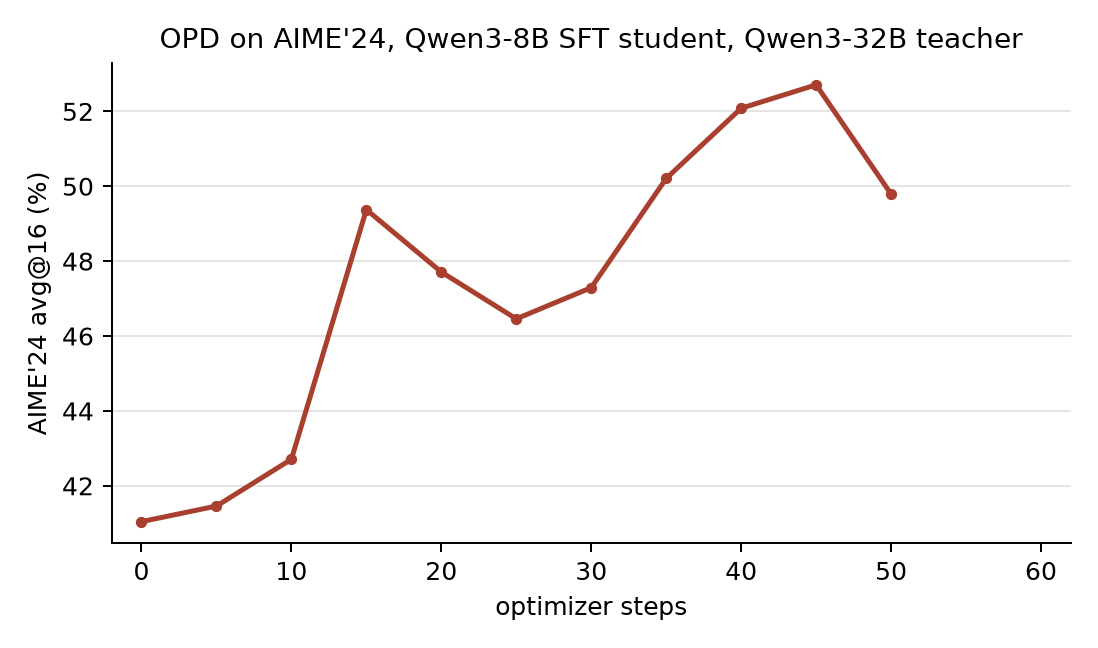
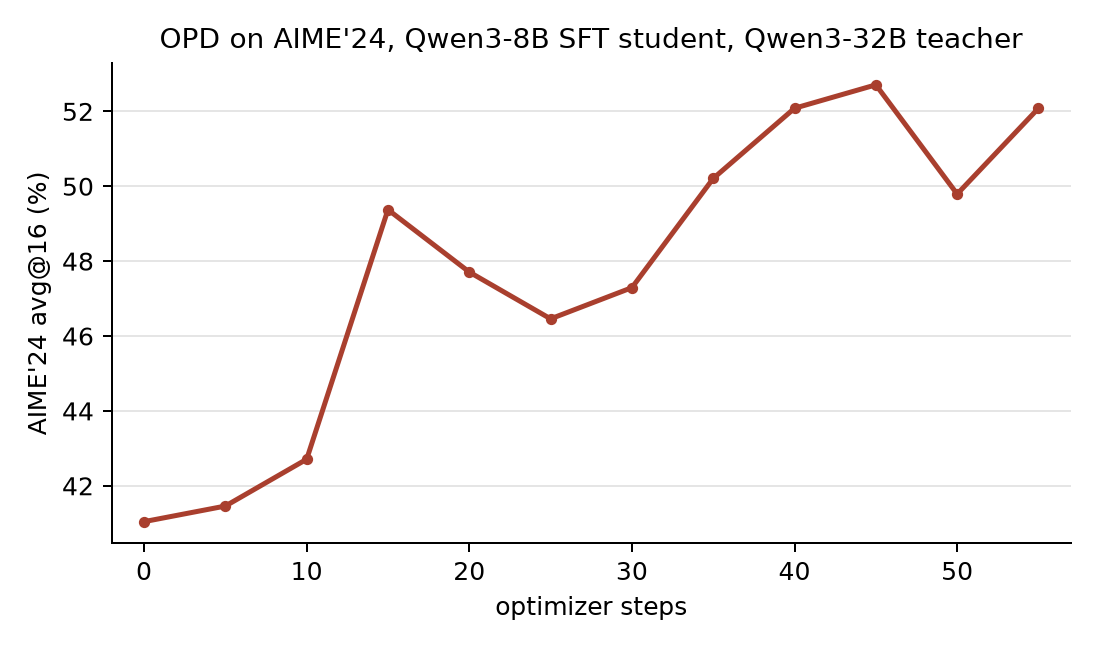
docs(opd): record the example run through update 55
The run was stopped after update 55. The curve and the results text now cover the twelve evaluations.

diff --git a/recipes/opd/examples/math/README.md b/recipes/opd/examples/math/README.md
@@ -110,18 +110,20 @@ control above was measured that way.
 
 ![AIME'24 avg@16 against optimizer steps](results/2026-10-13-aime24-qwen3-8b-32b/learning_curve.png)
 
-One run with seed 0 on eight H100s. The actor, the rollout engines and the
-teacher engine ran on separate GPUs.
+One run with seed 0 on eight H100s, stopped after update 55 of the 60 in the
+protocol. The actor, the rollout engines and the teacher engine ran on
+separate GPUs.
 
 AIME'24 accuracy goes from 41.0% at the SFT checkpoint to 49.4% at update 15
-and to 52.7% at update 45. It stays between 49.8% and 52.7% from update 35 on.
-The teacher scores 80.2%. Adjacent evaluations exchange about 60 correct
-responses in each direction, so a two-point difference between them is noise.
+and to 52.7% at update 45. It stays between 49.8% and 52.7% from update 35 on
+and ends at 52.1% at update 55. The teacher scores 80.2%. Adjacent evaluations
+exchange about 60 correct responses in each direction, so a two-point
+difference between them is noise.
 
 The training loss, the sampled-token reverse KL between student and teacher,
 falls from 0.454 at update 1 to 0.216 at update 5 and to 0.18 by update 30,
-while the gradient norm falls from 5.7 to about 0.07. Loss and accuracy agree:
-as the student matches the teacher more closely, it answers more AIME'24
-questions. No training response reaches the 16384-token limit. The evaluation
-responses that hit the 30720-token budget go from 30 at the checkpoint to 191
-at update 5 and back to 70 at update 50.
+where it stays, while the gradient norm falls from 5.7 to about 0.07. Loss and
+accuracy agree: as the student matches the teacher more closely, it answers
+more AIME'24 questions. No training response reaches the 16384-token limit.
+The evaluation responses that hit the 30720-token budget go from 30 at the
+checkpoint to 191 at update 5 and stay between 70 and 118 from update 20 on.
